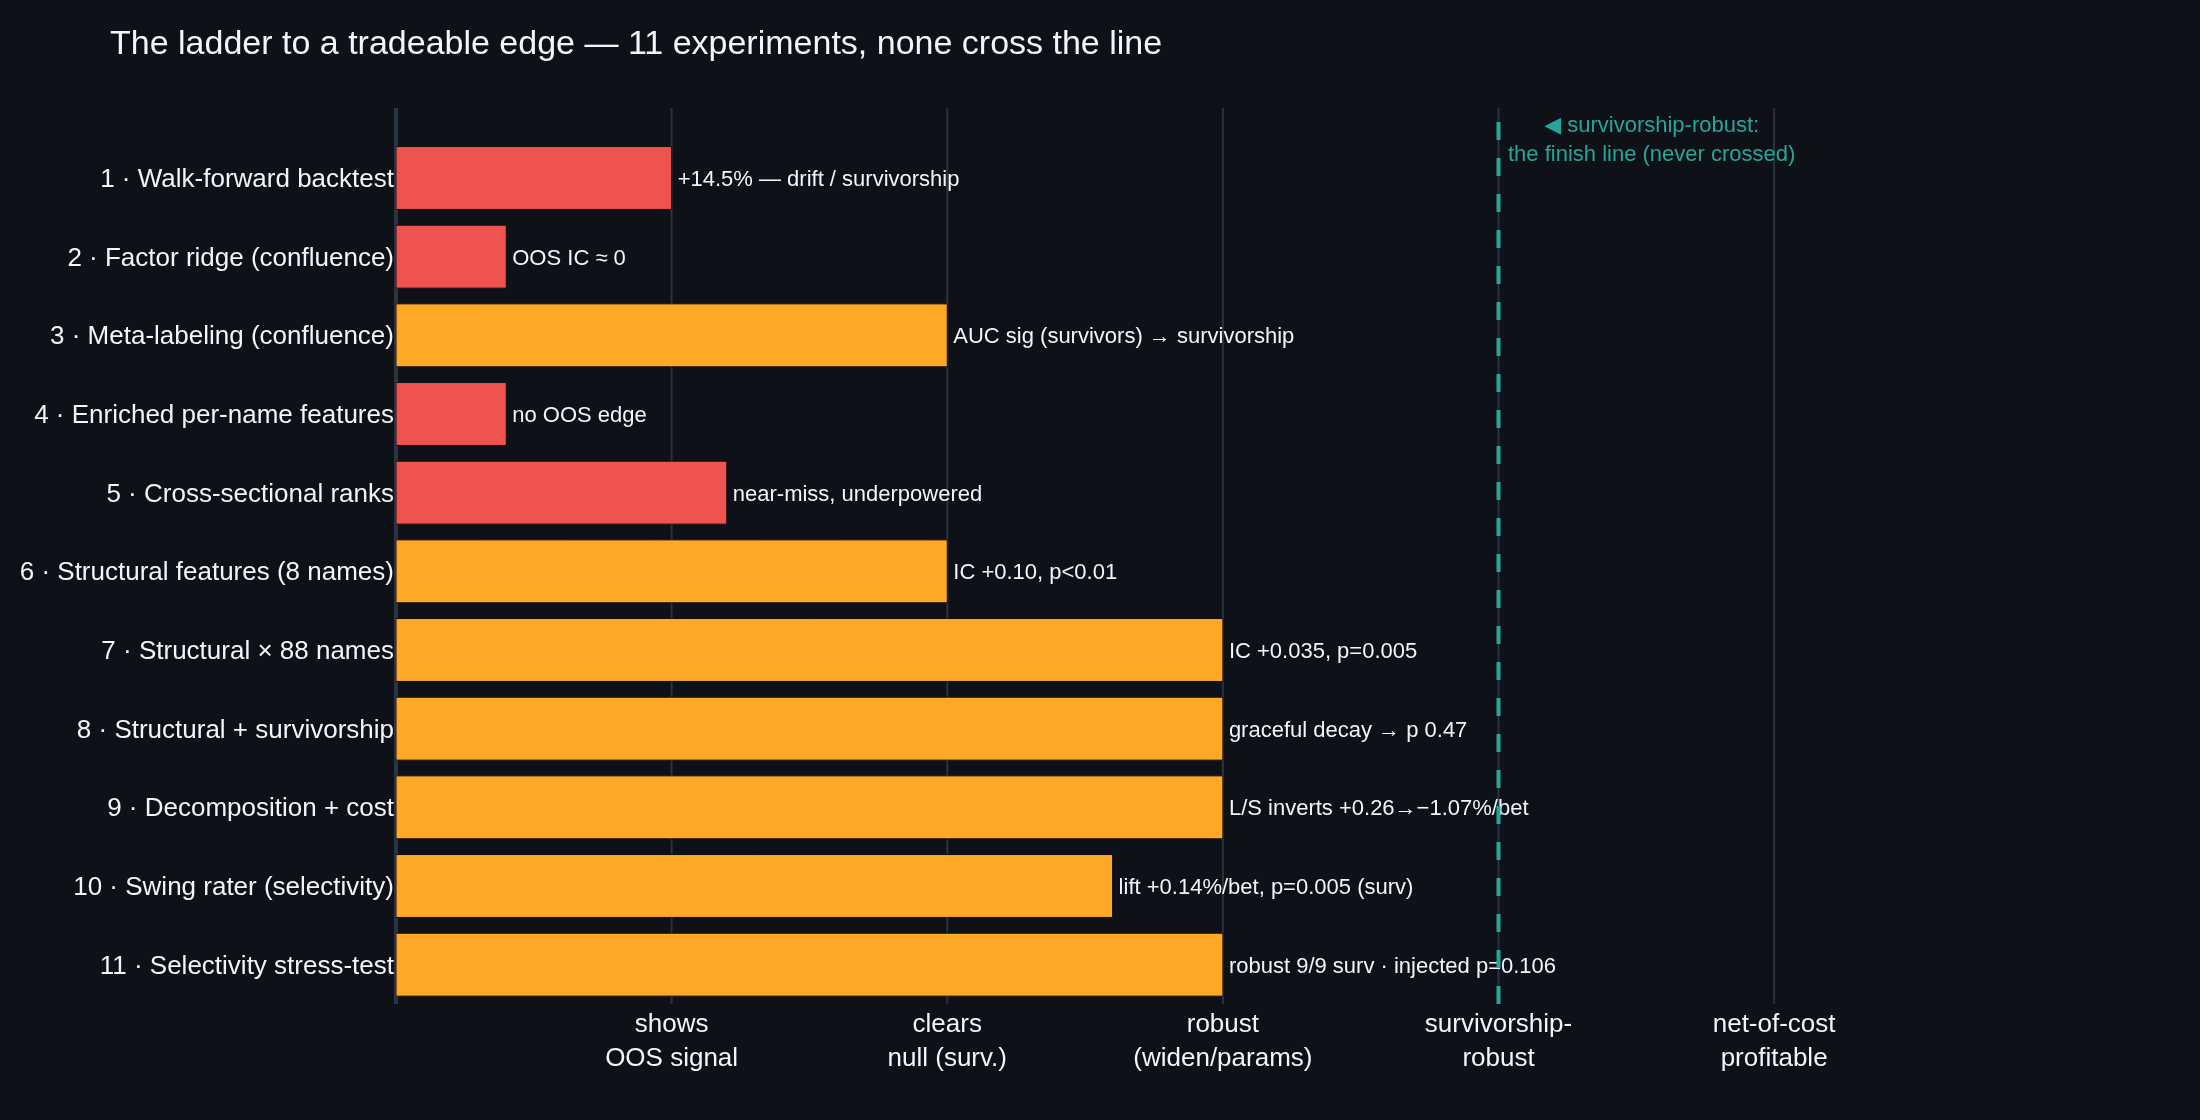
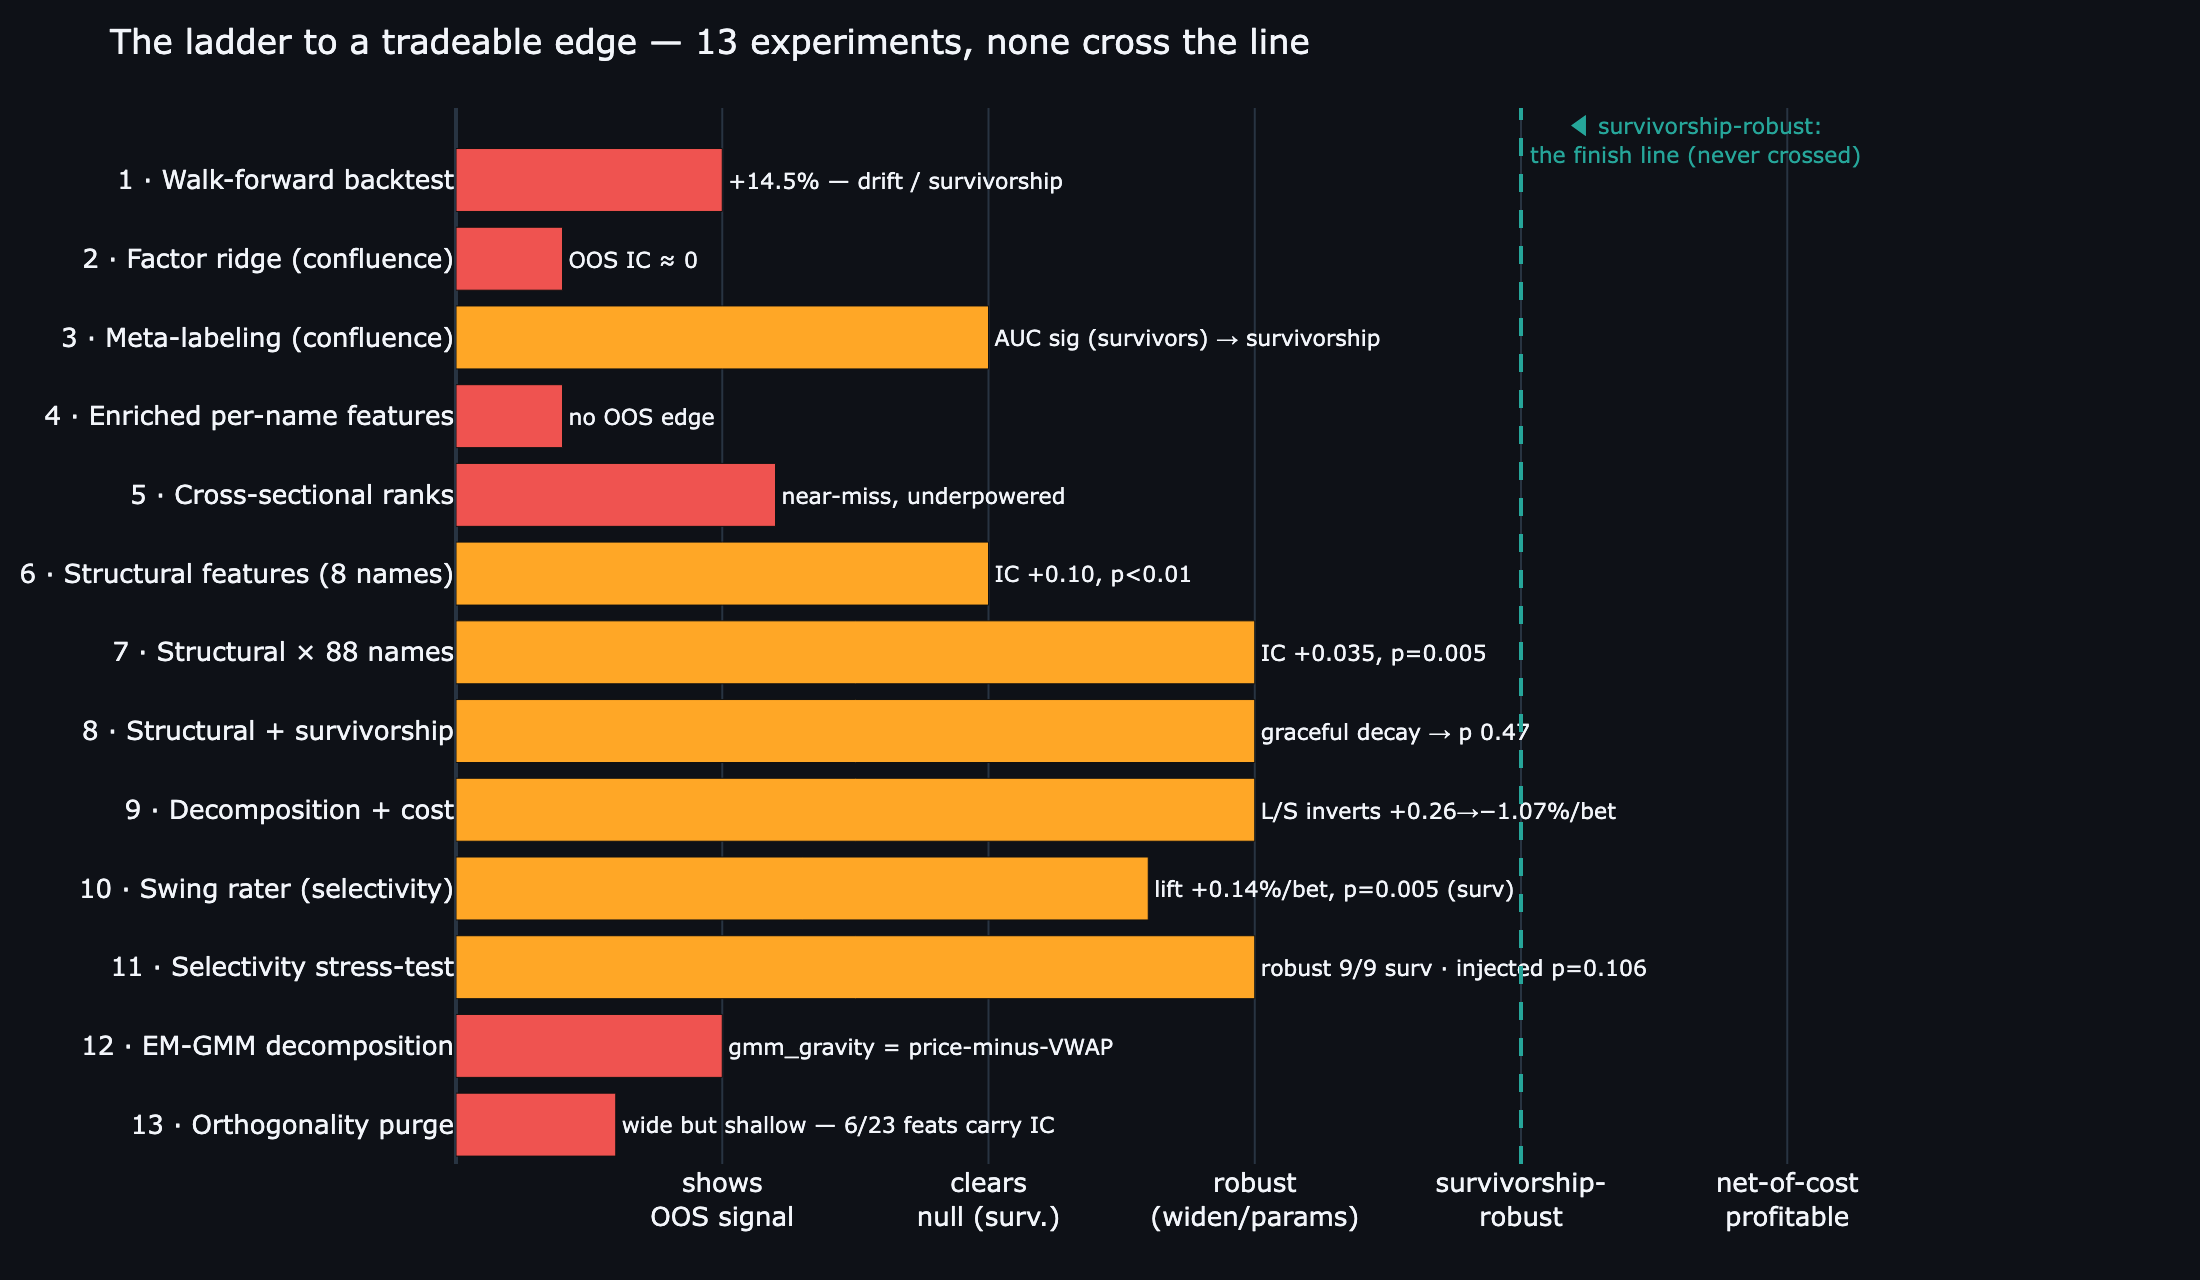
docs: regenerate stale arc figure + research PDF to v1.10.0 / 13 experiments (#6)
The README/RESEARCH prose was updated to thirteen experiments + the forward
paper-walk, but the committed artifacts still said "11 experiments" (built at
v1.7, PR #11) — an inconsistency the README displays/links.

  * generate_figures.py: arc_scorecard gains rungs 12 (EM-GMM = price-minus-VWAP)
    and 13 (orthogonality purge, wide but shallow) — both short, neither crosses
    the survivorship-robust line; title "11" -> "13 experiments"; height bumped.
  * build_research_pdf.py: page header v1.7.0 -> v1.10.0, cover "Eleven" -> "Thirteen".
  * Regenerated docs/img/arc_scorecard.png and docs/Quiet-Volume-Research.pdf
    (now 13 pages, includes §12/§13 + the paper-walk; no stale "eleven" leftovers).

The other four figures (Exp 8/9/11-specific) are unchanged — their data didn't move.

diff --git a/docs/img/generate_figures.py b/docs/img/generate_figures.py
@@ -45,6 +45,8 @@ def arc_scorecard() -> None:
         ("9 · Decomposition + cost",           3.0, "L/S inverts +0.26→−1.07%/bet"),
         ("10 · Swing rater (selectivity)",     2.6, "lift +0.14%/bet, p=0.005 (surv)"),
         ("11 · Selectivity stress-test",       3.0, "robust 9/9 surv · injected p=0.106"),
+        ("12 · EM-GMM decomposition",          1.0, "gmm_gravity = price-minus-VWAP"),
+        ("13 · Orthogonality purge",           0.6, "wide but shallow — 6/23 feats carry IC"),
     ]
     labels = [e[0] for e in exps][::-1]
     vals = [e[1] for e in exps][::-1]
@@ -56,13 +58,13 @@ def arc_scorecard() -> None:
     fig.add_vline(x=4, line=dict(color=GREEN, width=2, dash="dash"))
     fig.add_annotation(x=4.02, y=labels[-1], yshift=20, text="◀ survivorship-robust:<br>the finish line (never crossed)",
                        showarrow=False, xanchor="left", font=dict(color=GREEN, size=11))
-    _base(fig, "The ladder to a tradeable edge — 11 experiments, none cross the line", h=560)
+    _base(fig, "The ladder to a tradeable edge — 13 experiments, none cross the line", h=640)
     fig.update_layout(margin=dict(l=10, r=20, t=54, b=58))
     fig.update_xaxes(range=[0, 6.4], tickvals=[1, 2, 3, 4, 5],
                      ticktext=["shows<br>OOS signal", "clears<br>null (surv.)",
                                "robust<br>(widen/params)", "survivorship-<br>robust",
                                "net-of-cost<br>profitable"])
-    _save(fig, "arc_scorecard.png", w=1100, h=560)
+    _save(fig, "arc_scorecard.png", w=1100, h=640)
 
 
 # 2) Survivorship mirage — conviction-bucket forward return inverts under injection.

diff --git a/docs/build_research_pdf.py b/docs/build_research_pdf.py
@@ -24,7 +24,7 @@ CSS = """
 @page {
   size: A4; margin: 20mm 18mm 22mm 18mm;
   @top-left  { content: "Quiet-Volume (vpts) · Validation Log"; font: 8pt 'Helvetica'; color: #8a93a3; }
-  @top-right { content: "v1.7.0"; font: 8pt 'Helvetica'; color: #8a93a3; }
+  @top-right { content: "v1.10.0"; font: 8pt 'Helvetica'; color: #8a93a3; }
   @bottom-right { content: counter(page) " / " counter(pages); font: 8pt 'Helvetica'; color: #8a93a3; }
   @bottom-left  { content: "Not financial advice · research & education"; font: 7.5pt 'Helvetica'; color: #b3bac6; }
 }
@@ -75,7 +75,7 @@ table, blockquote, pre, img { break-inside: avoid; }
 COVER = (
     '<div class="cover">'
     '<div class="kicker">Quiet-Volume · vpts — Quantitative Validation Study</div>'
-    f'<div class="meta">Eleven experiments · purged CPCV + permutation + survivorship · '
+    f'<div class="meta">Thirteen experiments · purged CPCV + permutation + survivorship · '
     f'compiled {_dt.date.today().isoformat()}</div>'
     "</div>"
 )